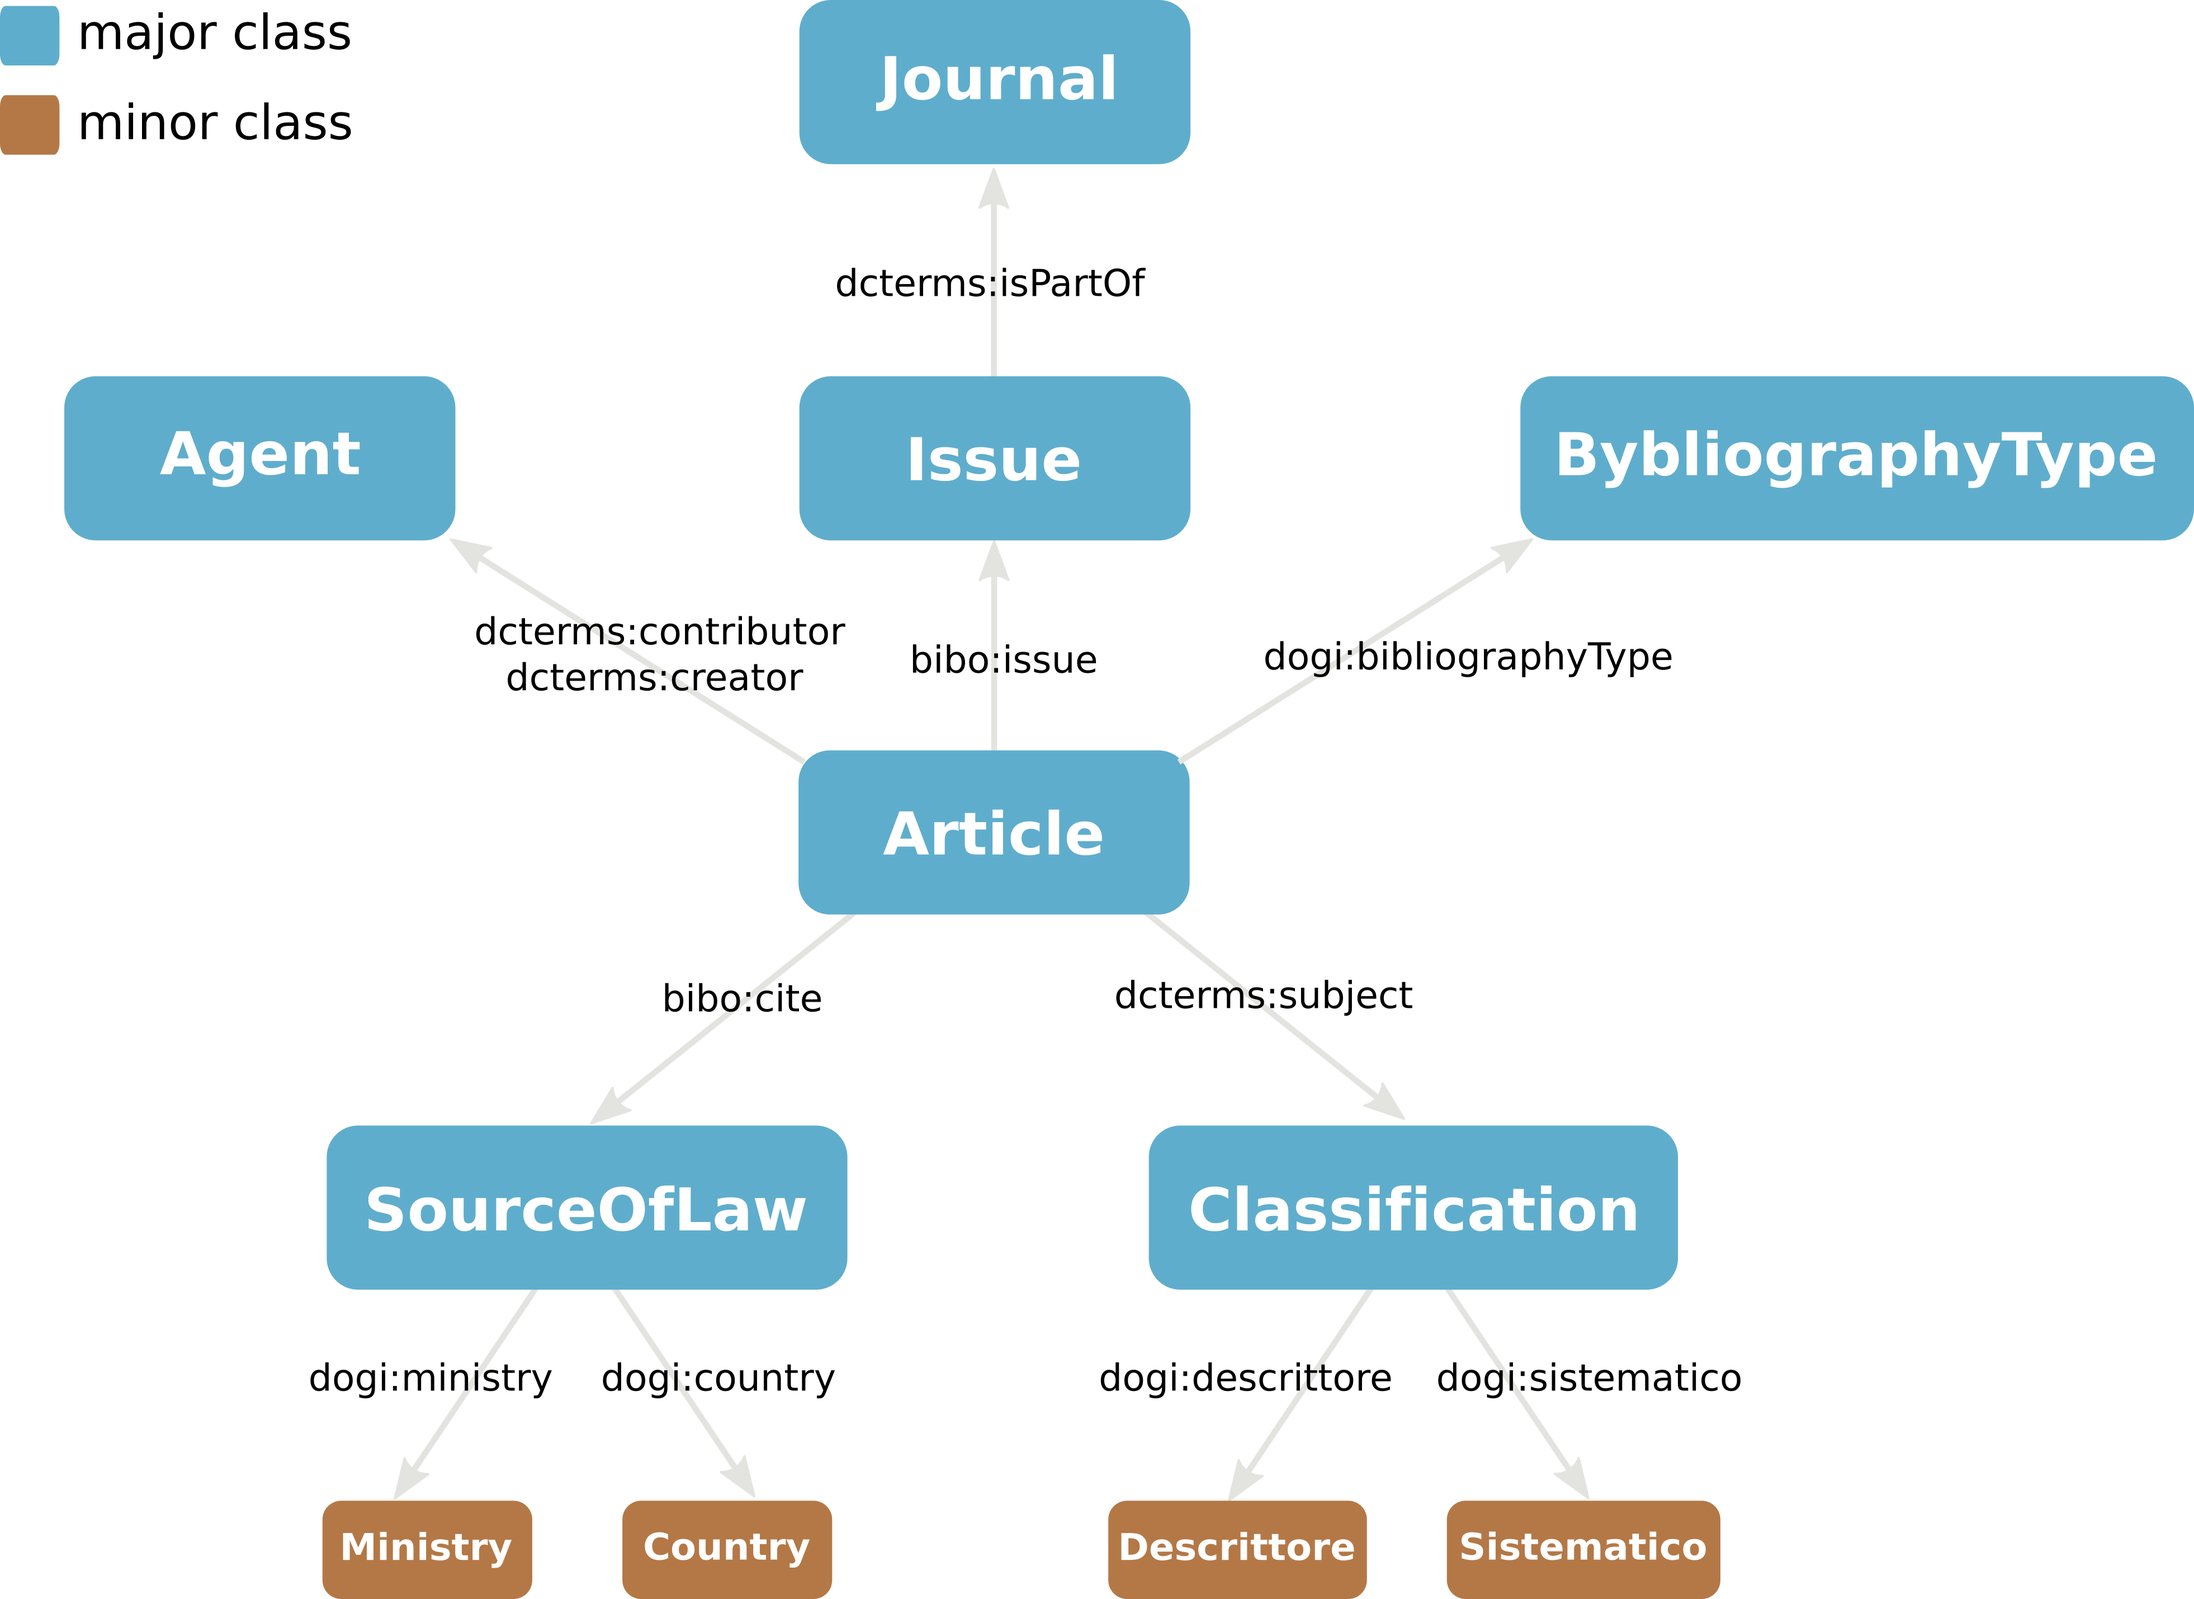
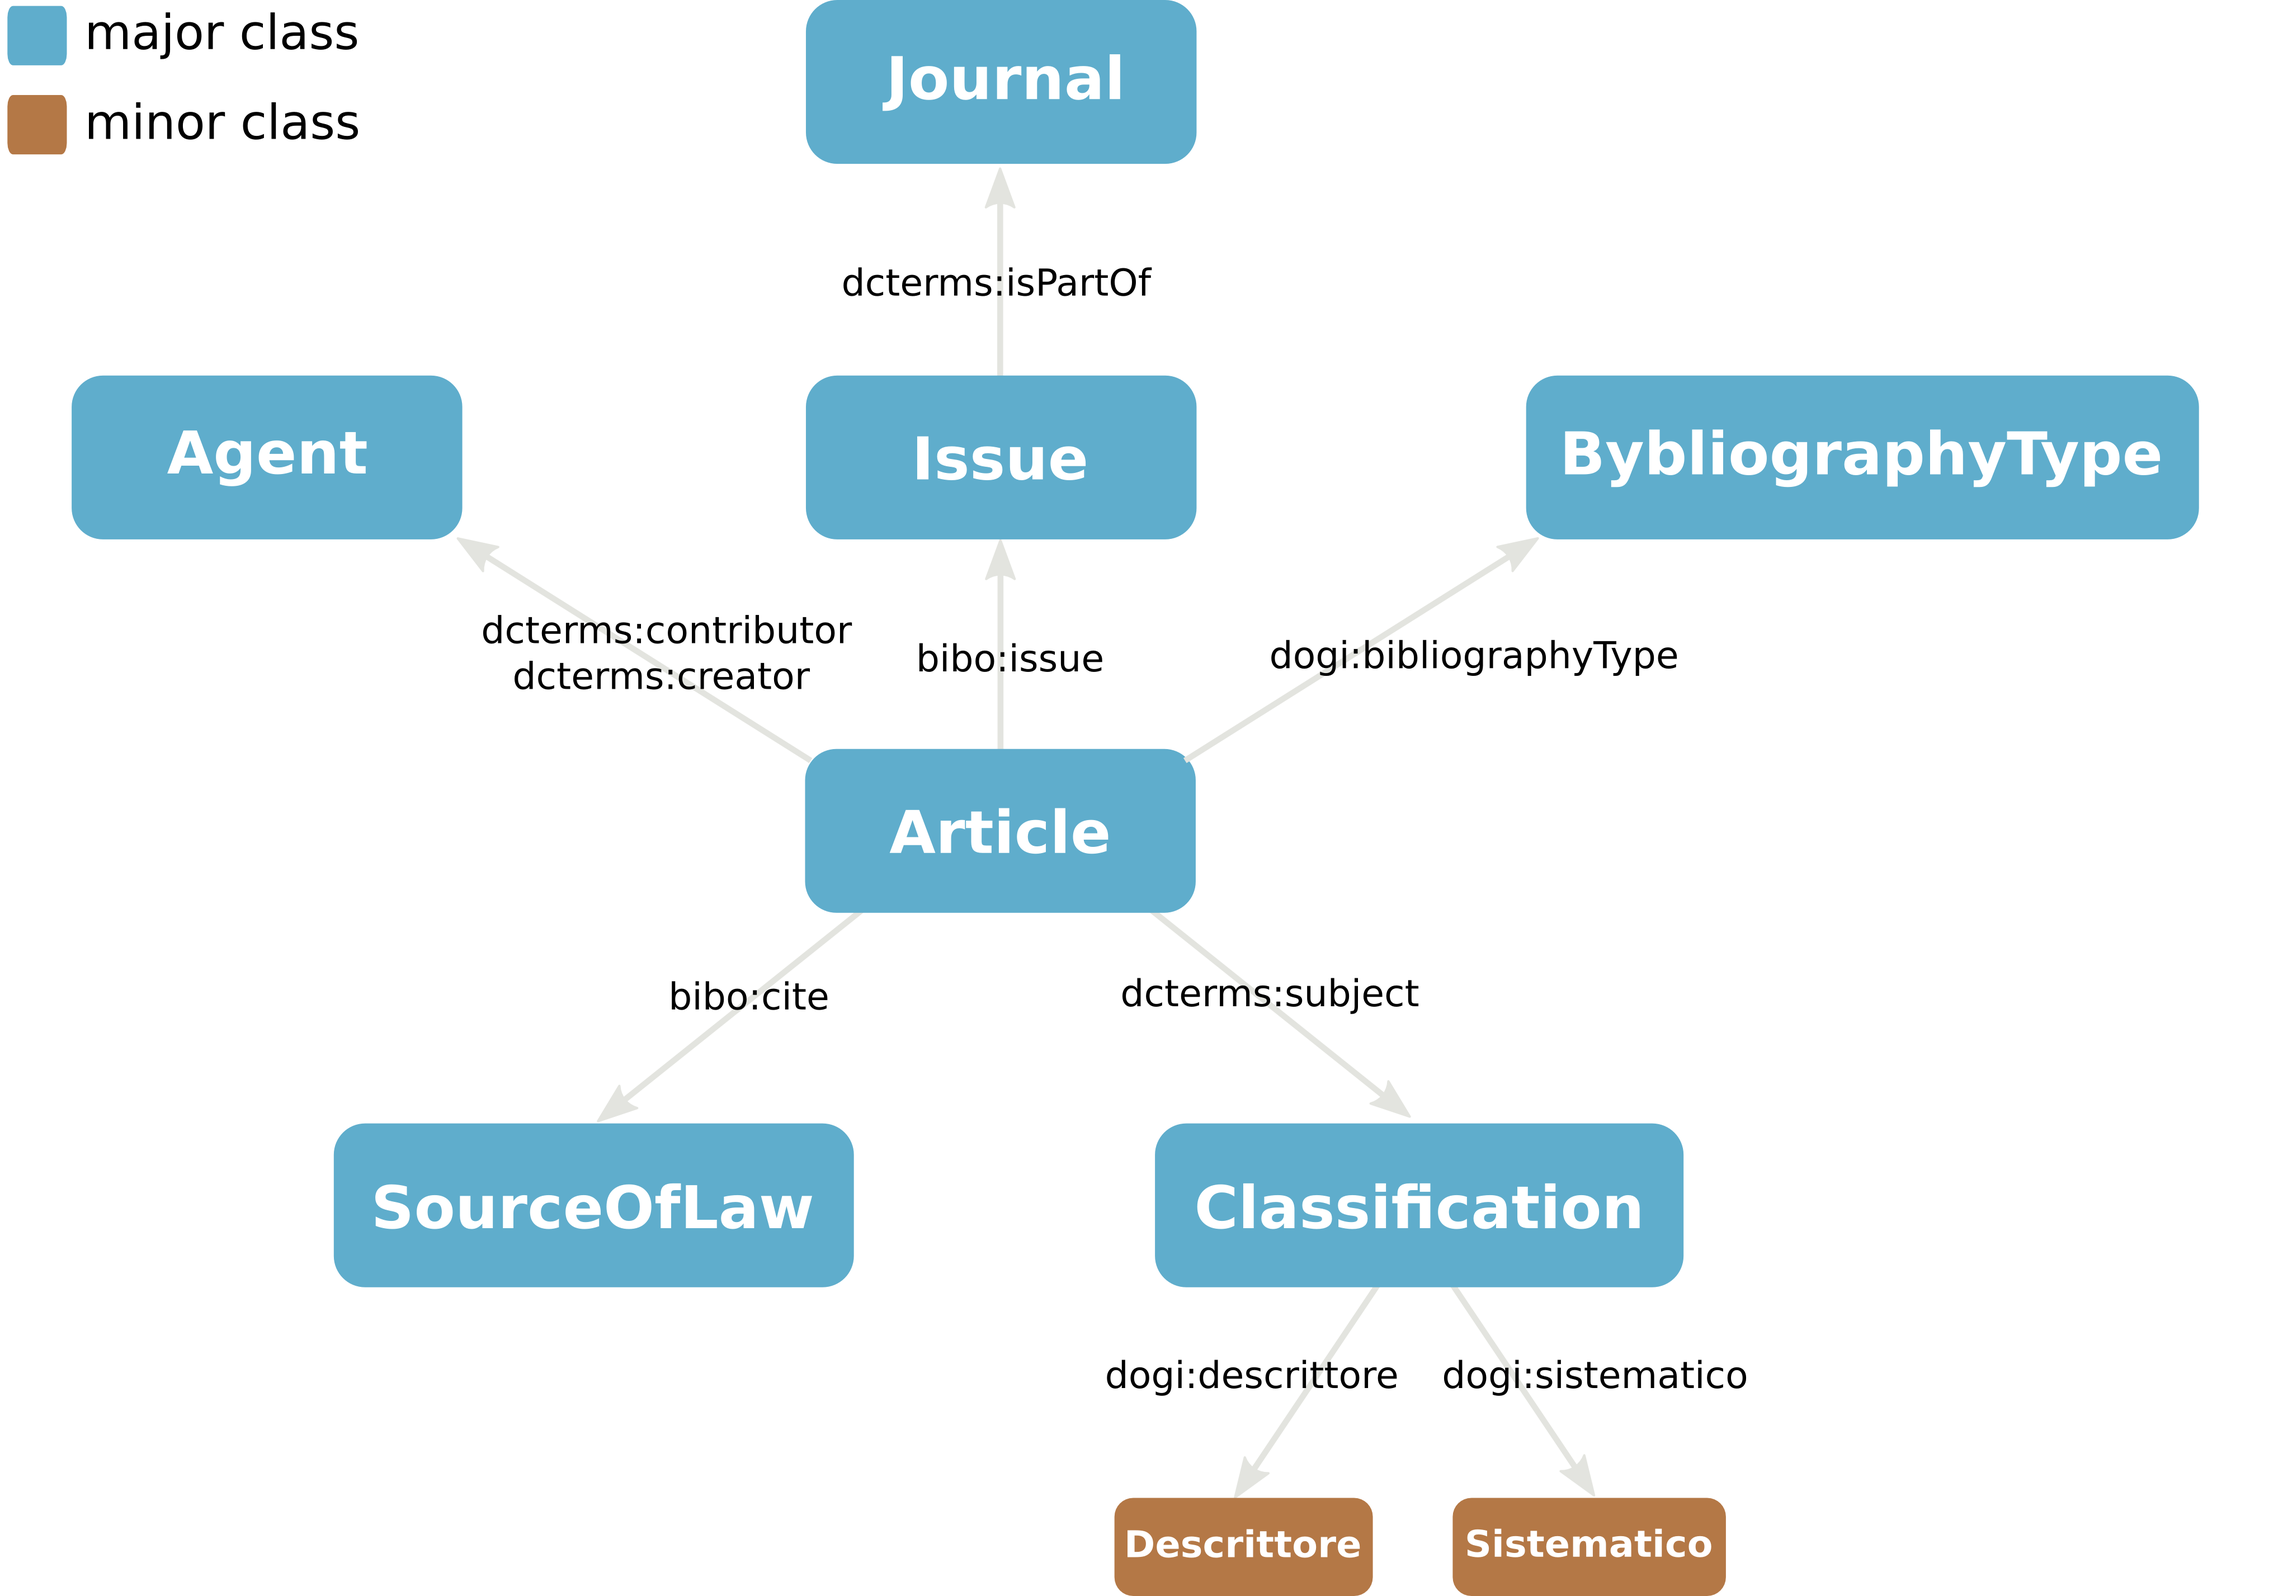
Removed Ministry and Country class.

diff --git a/webapp/snorql/root.js b/webapp/snorql/root.js
@@ -65,18 +65,6 @@
       "translation": "",
       "table": "tabSistematici",
       "main": false
-    }, {
-      "class": "Ministry",
-      "desc": "Administrative Structure responsible for a government sector.",
-      "translation": "",
-      "table": "tabMinisteri",
-      "main": false
-    }, {
-      "class": "Country",
-      "desc": "Regions identified as a distinct entity in political geography.",
-      "translation": "",
-      "table": "tabStati",
-      "main": false
     }
   ];
 
